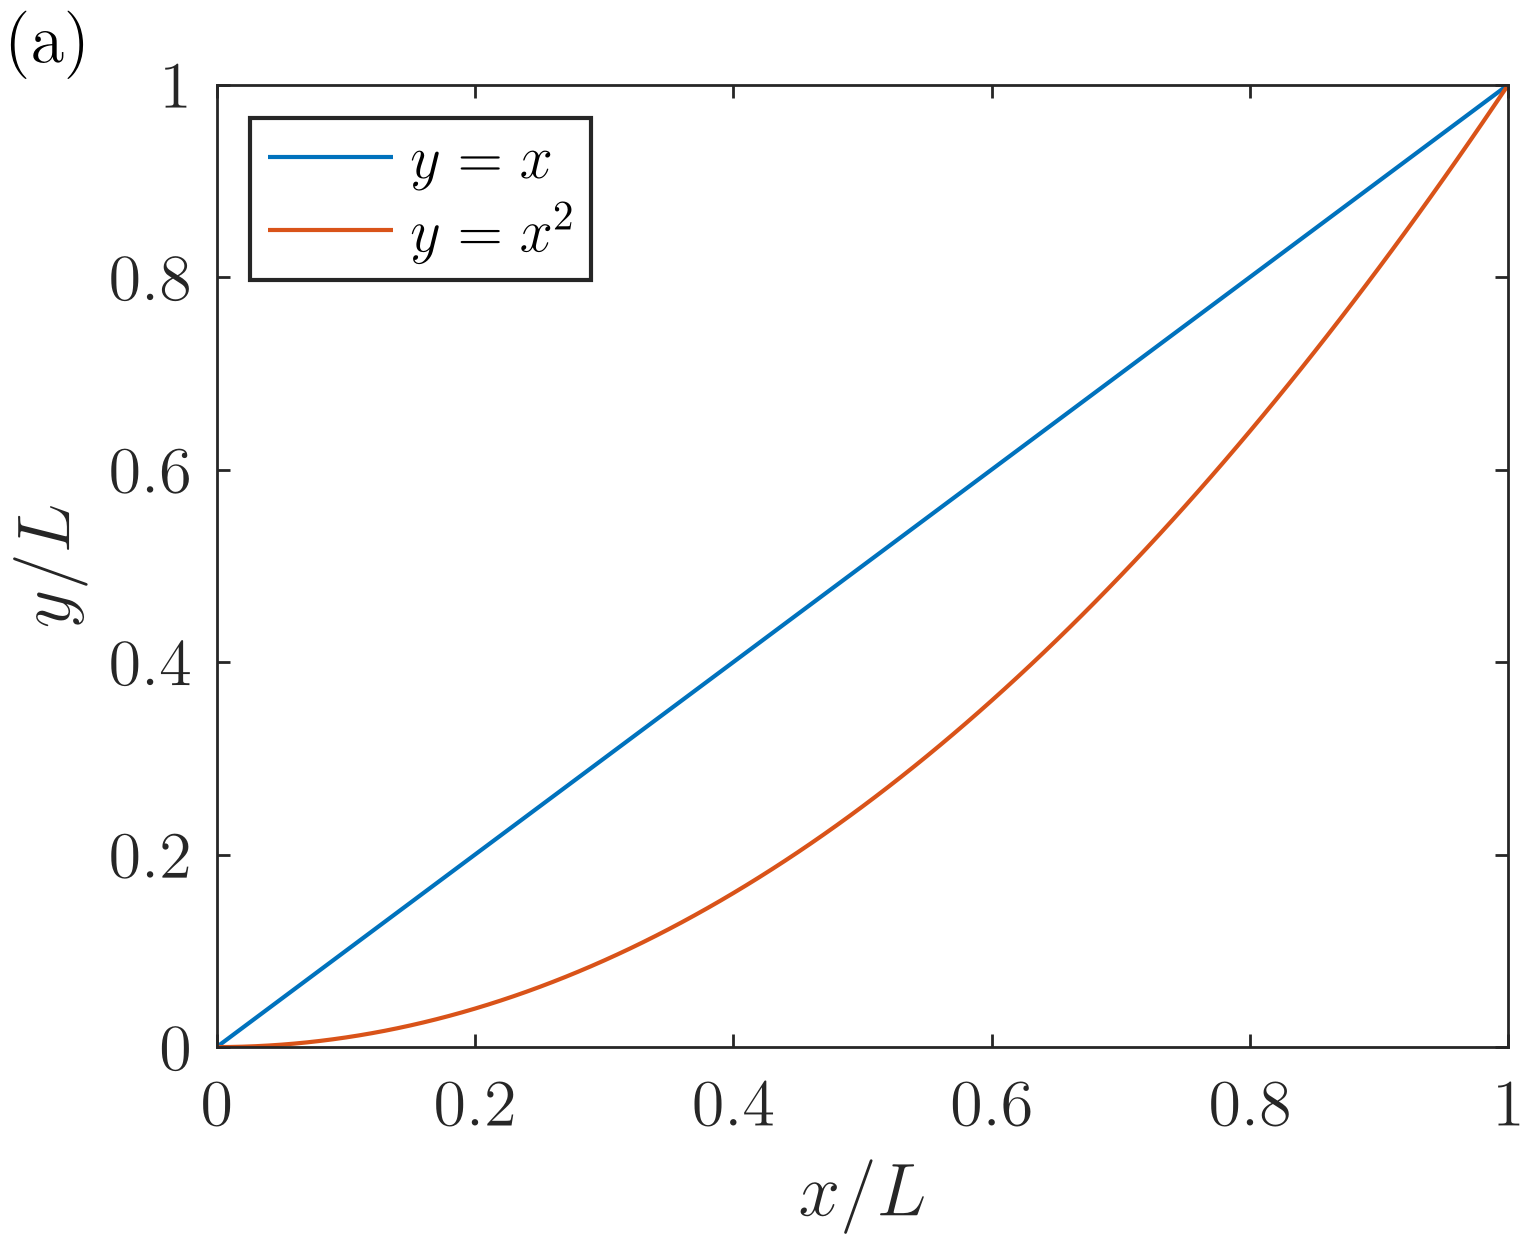
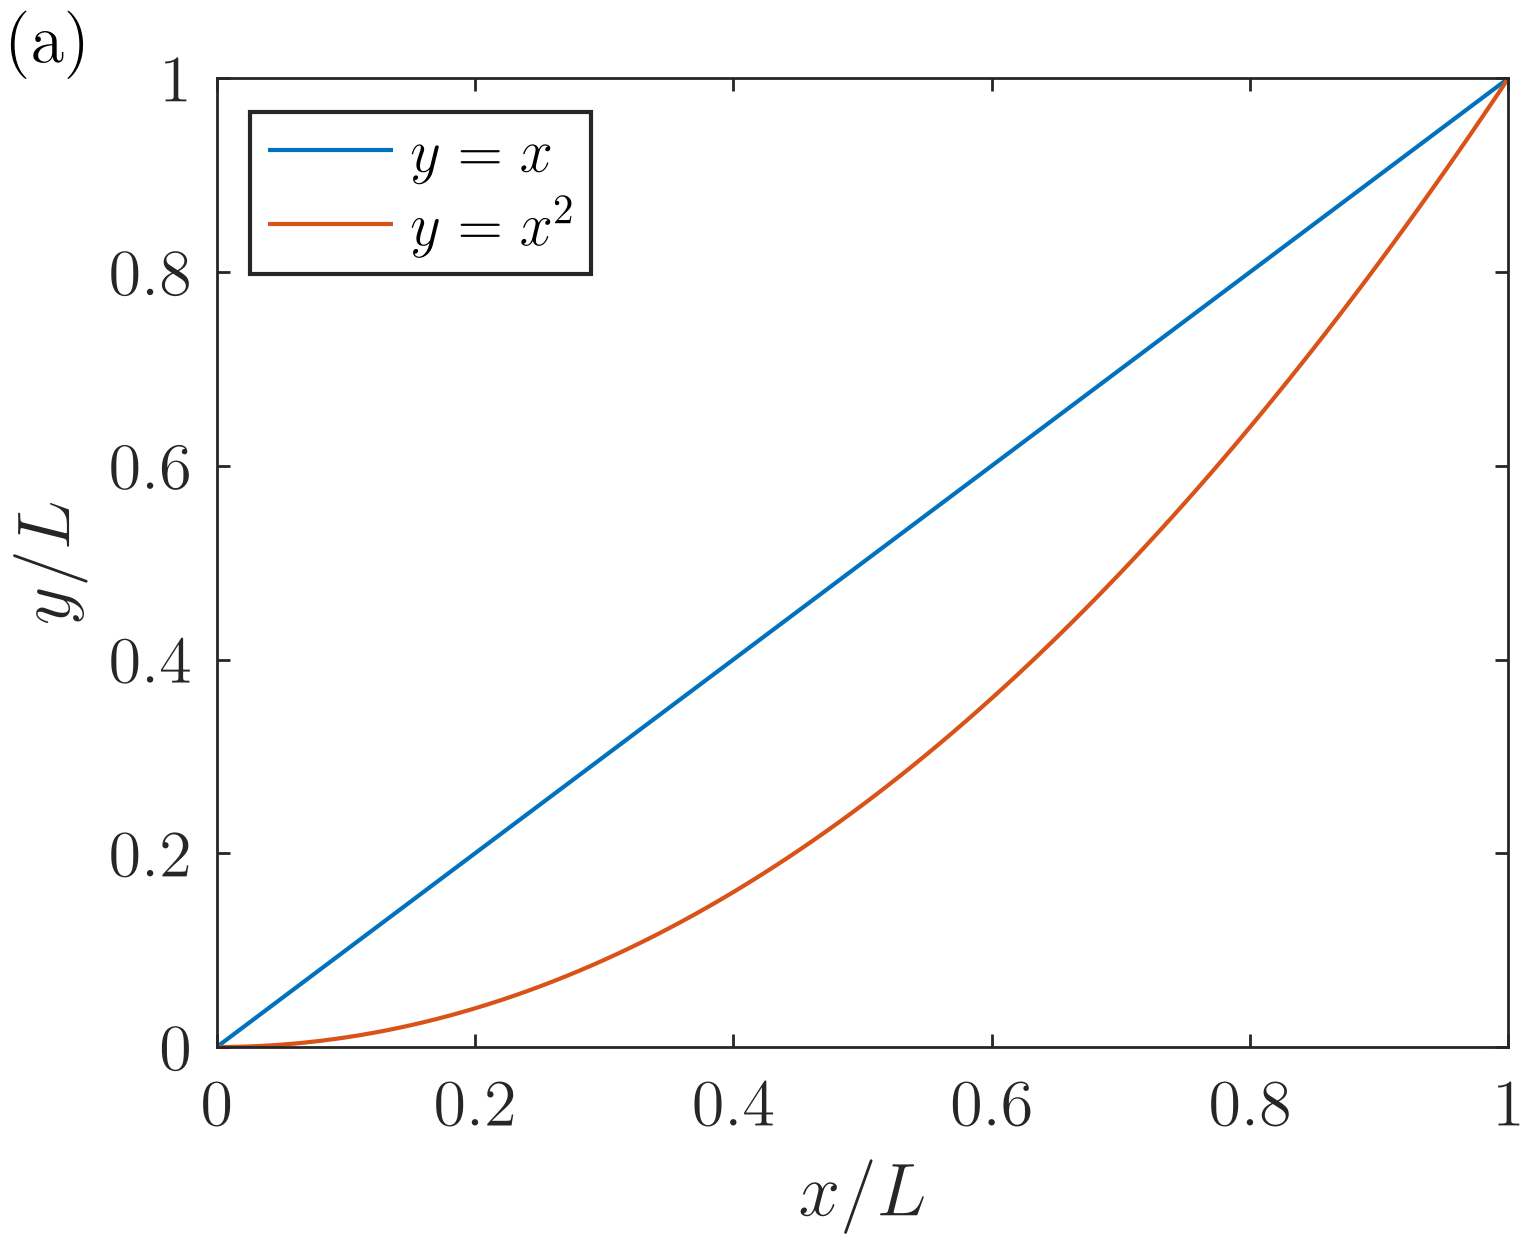
Enforce plot box ratios and safe export

diff --git a/skills/plot-matlab-style/scripts/matlab_style_plots.py b/skills/plot-matlab-style/scripts/matlab_style_plots.py
@@ -47,10 +47,10 @@ LINE_SCALE_METHODS = {
 }
 
 LINE_PAGE_PT = (368.0, 299.0)
-LINE_AXES_PT = (52.0, 47.5, 310.0, 231.0)
+LINE_AXES_PT = (52.0, 47.5, 310.0, 310.0 * 3.0 / 4.0)
 
 CONTOUR_PAGE_PT = (370.0, 308.0)
-CONTOUR_AXES_PT = (51.5, 49.5, 263.5, 231.0)
+CONTOUR_AXES_FRAME_PT = (51.5, 49.5, 263.5, 231.0)
 CONTOUR_CBAR_PT = (332.0, 49.5, 16.0, 231.0)
 
 PUBLICATION_RC = {
@@ -104,6 +104,45 @@ def _normalized_bounds(bounds_pt: Sequence[float], page_pt: Sequence[float]):
         bottom / page_height,
         width / page_width,
         height / page_height,
+    )
+
+
+def _box_ratio_value(box_ratio: float | Sequence[float]) -> float:
+    """Normalize a physical axes-box width:height ratio."""
+
+    if np.isscalar(box_ratio):
+        ratio = float(box_ratio)
+    else:
+        values = tuple(float(value) for value in box_ratio)
+        if len(values) != 2:
+            raise ValueError("box_ratio must be a number or (width, height)")
+        width, height = values
+        if width <= 0 or height <= 0:
+            raise ValueError("box_ratio width and height must be positive")
+        ratio = width / height
+    if not np.isfinite(ratio) or ratio <= 0:
+        raise ValueError("box_ratio must be positive and finite")
+    return ratio
+
+
+def _fit_box_ratio(
+    frame_pt: Sequence[float], box_ratio: float | Sequence[float]
+) -> tuple[float, float, float, float]:
+    """Fit an exact width:height axes box inside a calibrated frame."""
+
+    left, bottom, frame_width, frame_height = map(float, frame_pt)
+    ratio = _box_ratio_value(box_ratio)
+    if frame_width / frame_height > ratio:
+        height = frame_height
+        width = height * ratio
+    else:
+        width = frame_width
+        height = width / ratio
+    return (
+        left + (frame_width - width) / 2.0,
+        bottom + (frame_height - height) / 2.0,
+        width,
+        height,
     )
 
 
@@ -191,12 +230,45 @@ def _output_prefix(value: str | Path) -> Path:
     return prefix
 
 
+def _png_has_clear_border(path: Path, border_px: int = 2) -> bool:
+    """Return whether the outer PNG pixels are blank white canvas."""
+
+    image = plt.imread(path)
+    if (
+        image.ndim != 3
+        or image.shape[0] < 2 * border_px
+        or image.shape[1] < 2 * border_px
+    ):
+        return False
+    rgb = image[..., :3]
+    if image.shape[-1] == 4:
+        alpha = image[..., 3:4]
+        rgb = rgb * alpha + (1.0 - alpha)
+    border = np.concatenate(
+        (
+            rgb[:border_px].reshape(-1, 3),
+            rgb[-border_px:].reshape(-1, 3),
+            rgb[:, :border_px].reshape(-1, 3),
+            rgb[:, -border_px:].reshape(-1, 3),
+        ),
+        axis=0,
+    )
+    return bool(np.all(border >= 0.995))
+
+
 def _save(fig, output_prefix: str | Path, dpi: int) -> dict[str, Path]:
+    """Save both formats and fail closed if the fitted PNG still touches an edge."""
+
     prefix = _output_prefix(output_prefix)
     png = prefix.with_suffix(".png")
     pdf = prefix.with_suffix(".pdf")
     fig.savefig(png, dpi=dpi)
     fig.savefig(pdf)
+    if not _png_has_clear_border(png):
+        raise RuntimeError(
+            "page fitting left rendered content on the PNG boundary; "
+            "the output may be clipped"
+        )
     return {"png": png.resolve(), "pdf": pdf.resolve()}
 
 
@@ -613,7 +685,8 @@ def line_plot(
     labels to Matplotlib line properties, such as marker and linestyle.
     Set ``legend_loc=None`` to omit the legend. Automatic linear limits use
     4--6 uniform ticks; automatic log limits use clean 1--2--5 ticks. Explicit
-    limits or ticks always take precedence.
+    limits or ticks always take precedence. The physical axes box is always
+    exactly 4:3 (width:height); this is independent of data limits and scale.
 
     With ``legend_clearance`` (the default) an automatic y range is widened
     until the legend no longer sits on top of any curve. It has no effect when
@@ -743,6 +816,7 @@ def contour_plot(
     y: Sequence[float],
     z,
     *,
+    box_ratio: float | tuple[float, float],
     output_prefix: str | Path = "contour_plot",
     xlabel: str = r"$x/L$",
     ylabel: str = r"$y/L$",
@@ -760,7 +834,10 @@ def contour_plot(
 
     Accept ``z`` in either Matplotlib shape ``(len(y), len(x))`` or MATLAB
     ``ndgrid`` shape ``(len(x), len(y))``. Signed data defaults to symmetric
-    color limits around zero.
+    color limits around zero. ``box_ratio`` is required and denotes the
+    physical axes-box width:height ratio, either as a positive number or a
+    ``(width, height)`` pair. Callers should obtain it from the user rather
+    than infer it.
     """
 
     require_latex_tools()
@@ -797,11 +874,18 @@ def contour_plot(
     if colorbar_ticks is None:
         colorbar_ticks = np.linspace(vmin, vmax, 5)
 
+    axes_pt = _fit_box_ratio(CONTOUR_AXES_FRAME_PT, box_ratio)
+    cbar_pt = (
+        CONTOUR_CBAR_PT[0],
+        axes_pt[1],
+        CONTOUR_CBAR_PT[2],
+        axes_pt[3],
+    )
     page_width, page_height = CONTOUR_PAGE_PT
     with plt.rc_context(PUBLICATION_RC):
         fig = plt.figure(figsize=(page_width / 72, page_height / 72))
-        ax = fig.add_axes(_normalized_bounds(CONTOUR_AXES_PT, CONTOUR_PAGE_PT))
-        cax = fig.add_axes(_normalized_bounds(CONTOUR_CBAR_PT, CONTOUR_PAGE_PT))
+        ax = fig.add_axes(_normalized_bounds(axes_pt, CONTOUR_PAGE_PT))
+        cax = fig.add_axes(_normalized_bounds(cbar_pt, CONTOUR_PAGE_PT))
 
         filled = ax.contourf(
             x_array,
@@ -862,7 +946,7 @@ def contour_plot(
 
         _expand_page_to_fit(
             fig,
-            ((ax, CONTOUR_AXES_PT), (cax, CONTOUR_CBAR_PT)),
+            ((ax, axes_pt), (cax, cbar_pt)),
             CONTOUR_PAGE_PT,
             annotation_artist,
         )
@@ -895,6 +979,7 @@ def _run_demo(kind: str, output_dir: Path) -> None:
             x,
             y,
             z,
+            box_ratio=(263.5, 231.0),
             output_prefix=output_dir / "contour_demo",
             zlim=(-2, 2),
             xticks=np.linspace(0, 1, 6),

diff --git a/skills/plot-matlab-style/scripts/verify_pdf.py b/skills/plot-matlab-style/scripts/verify_pdf.py
@@ -26,10 +26,13 @@ def command_output(command: list[str]) -> str:
 def main() -> None:
     parser = argparse.ArgumentParser(description=__doc__)
     parser.add_argument("pdf", type=Path)
-    parser.add_argument("--width", type=float, required=True)
-    parser.add_argument("--height", type=float, required=True)
+    parser.add_argument("--width", type=float)
+    parser.add_argument("--height", type=float)
     parser.add_argument("--tolerance", type=float, default=0.05)
     args = parser.parse_args()
+
+    if (args.width is None) != (args.height is None):
+        parser.error("--width and --height must be supplied together")
 
     for command in ("pdfinfo", "pdffonts"):
         if shutil.which(command) is None:
@@ -42,7 +45,10 @@ def main() -> None:
     if match is None:
         raise SystemExit("could not parse PDF page size")
     width, height = map(float, match.groups())
-    if abs(width - args.width) > args.tolerance or abs(height - args.height) > args.tolerance:
+    if args.width is not None and (
+        abs(width - args.width) > args.tolerance
+        or abs(height - args.height) > args.tolerance
+    ):
         raise SystemExit(
             f"page size {width:g} x {height:g} pt; "
             f"expected {args.width:g} x {args.height:g} pt"

diff --git a/skills/plot-matlab-style/SKILL.md b/skills/plot-matlab-style/SKILL.md
@@ -9,15 +9,15 @@ Create line and filled-contour figures with the calibrated style while preservin
 
 ## Workflow
 
-1. Identify the requested plot type, linear/semilog/loglog axis scale, input data, labels, limits, ticks, legend, color scale, and output formats. Infer harmless defaults; ask only when a missing choice would materially change the scientific meaning.
+1. Identify the requested plot type, linear/semilog/loglog axis scale, input data, labels, limits, ticks, legend, color scale, and output formats. For every line plot, use an axes-box width:height ratio of exactly 4:3. For every contour plot, if the user has not already supplied the axes-box ratio, ask them for it before drawing; do not infer a contour ratio from the data or a reference image. Infer other harmless defaults; ask only when a missing choice would materially change the scientific meaning.
 2. Check that Python can import NumPy and Matplotlib and that `latex`, `dvipng`, and Ghostscript are available. Prefer the existing `pythonlineplot` Conda environment when present.
 3. Use `scripts/matlab_style_plots.py` instead of recreating style constants. Import its `line_plot` or `contour_plot` function from a small project-local driver script. Copy the module into the project only when portable source code is required.
 4. Preserve supplied data. Never substitute the bundled demo data into a real request.
 5. Let the legend clear the data. `line_plot` grows an automatic y range one tick step at a time (a decade step on log axes) until the legend frame no longer covers any plotted point, re-deriving ticks each step so the 4--6 uniform label rule keeps holding. Pass `legend_clearance=False` to disable it. When `ylim` or `yticks` is explicit the range is left exactly as given and the collision is reported as a warning instead.
-6. Use the calibrated geometry by default. For linear axes without explicit limits, jointly choose outward-rounded limits and 4--6 uniformly spaced ticks that include both endpoints. For logarithmic axes, use positive outward-rounded limits and clean 1--2--5 or decade ticks. Preserve explicit limits and ticks exactly. Adapt sizes only when the user requests another journal width, aspect ratio, layout, or colorbar orientation.
-7. Save both PNG and vector PDF unless the user requests one format. Render the PDF at 300 dpi and visually inspect the latest result for seams, illegible labels, incorrect limits, or misplaced annotations. Clipping is handled automatically: the axes rectangle is the calibrated invariant, so when tick labels or the axis label would overrun the page the page grows by exactly the overflow instead of the axes shrinking. A figure whose labels fit is left at the nominal page size.
+6. Use the calibrated geometry by default. Treat "box ratio" as the physical axes rectangle width:height, not the data aspect. The line-plot box is always exactly 4:3. Pass the user-selected contour ratio to `contour_plot(box_ratio=...)`. For linear axes without explicit limits, jointly choose outward-rounded limits and 4--6 uniformly spaced ticks that include both endpoints. For logarithmic axes, use positive outward-rounded limits and clean 1--2--5 or decade ticks. Preserve explicit limits and ticks exactly. Adapt other sizes only when the user requests another journal width, layout, or colorbar orientation.
+7. Save both PNG and vector PDF unless the user requests one format. Do not manually guess crop boundaries. Clipping is handled automatically from the complete Matplotlib artist bounding box: the page grows by exactly the overflow while the axes box remains fixed, and the saved PNG must pass the blank-border check or export fails. Visually inspect only as a final spot check for scientific/layout errors.
 8. When matching a supplied MATLAB PDF, read `references/calibration.md`, render both PDFs at the same DPI, compare page/axes/colorbar geometry, and report any remaining renderer-only differences.
-9. Run `scripts/verify_pdf.py` on the final PDF when `pdfinfo` and `pdffonts` are available. Pass the page size the figure actually produced: wide tick labels legitimately widen the page past the nominal 368 x 299 pt (line) or 370 x 308 pt (contour), while the axes rectangle stays 310 x 231 pt. Only a *changed axes rectangle* indicates a real geometry regression.
+9. Run `scripts/verify_pdf.py` on the final PDF when `pdfinfo` and `pdffonts` are available. Pass the page size the figure actually produced when checking an exact reference: wide tick labels legitimately widen the page past the nominal size, while the axes rectangle stays fixed. Only a *changed axes rectangle* indicates a real geometry regression.
 
 ## Quick Use
 
@@ -42,13 +42,19 @@ line_plot(
 )
 ```
 
+The line axes box is always exactly 4:3; do not add a per-figure line ratio
+control or infer a different ratio from the data.
+
 Set `scale="semilogx"`, `scale="semilogy"`, or `scale="loglog"` for native
 Matplotlib logarithmic axes. Pass the original positive data; never apply
 `np.log`, `np.log10`, or another manual transform before calling `line_plot`.
 Use `series_styles={label: {"marker": "s", "linestyle": "None"}}` for
 per-series marker and line styling, and set `legend_loc=None` to omit a legend.
 
-Use the analogous `contour_plot(x, y, z, ...)` function for filled contours. Read the function docstrings before adapting unusual inputs.
+Use the analogous `contour_plot(x, y, z, box_ratio=(width, height), ...)`
+function for filled contours. The ratio is required by the API to prevent an
+unasked-for default. For example, pass `box_ratio=(4, 3)` only after the user
+chooses 4:3. Read the function docstrings before adapting unusual inputs.
 
 ## Quality Rules
 
@@ -60,6 +66,7 @@ Use the analogous `contour_plot(x, y, z, ...)` function for filled contours. Rea
 - Keep line colors distinguishable in color and grayscale; preserve explicitly requested colors.
 - Keep the axes rectangle, colorbar position, and font embedding verifiable in the exported PDF. The page size is a container, not a calibrated quantity: it may exceed the nominal size so that nothing is clipped.
 - Never let ink touch the page edge. The module renders through the Agg backend for this reason as well: an interactive backend snaps the canvas to whole pixels and silently moves the page off-spec.
+- Treat the automatic artist-bound measurement and saved-PNG border check as the clipping gate. Do not spend time manually segmenting the image to decide whether text was cut.
 
 ## Resources
 

diff --git a/skills/plot-matlab-style/references/calibration.md b/skills/plot-matlab-style/references/calibration.md
@@ -18,7 +18,7 @@ Use these measurements when the user requests the established line/contour style
 ## Line figure
 
 - PDF page: 368 x 299 pt **nominal**; see "Page expansion" below
-- Axes rectangle: left 52, bottom 47.5, width 310, height 231 pt (the calibrated invariant)
+- Axes rectangle: left 52, bottom 47.5, width 310, height 232.5 pt. The exact 4:3 width:height box is the current invariant and supersedes the legacy measured height of 231 pt.
 - Legend: upper left, square frame, white background, 1 pt border
 - Figure annotation `(a)`: near the page upper-left corner
 - Calibrated reference content: `y=x`, `y=x^2`, both axes 0-1
@@ -33,6 +33,7 @@ Use these measurements when the user requests the established line/contour style
 - Colorbar outline/ticks: 0.5 pt; Times New Roman 14.4 pt tick labels
 - Colorbar title: LaTeX, 16 pt
 - Calibrated reference data: `Z = sin(2*pi*X) + cos(4*pi*Y)`
+- The 263.5 x 231 pt main-axes rectangle is the legacy maximum frame, not a default contour ratio. Ask the user for the desired axes-box width:height ratio, fit it exactly inside this frame, and align the colorbar vertically with the fitted axes.
 
 ## Page expansion
 
@@ -48,8 +49,13 @@ font size, so a single measurement suffices. A figure that already fits with 1 p
 untouched, which keeps both reference demos at exactly 368 x 299 and 370 x 308 pt.
 
 Consequence for checking: compare the *axes rectangle*, not the page, against this file. A page of
-374.5 x 299 pt with a 310 x 231 pt axes rectangle is correct; a page of exactly 368 x 299 pt with a
+374.5 x 299 pt with a 310 x 232.5 pt axes rectangle is correct; a page of exactly 368 x 299 pt with a
 shrunken axes rectangle is not.
+
+After saving, the exporter also checks the outer two PNG pixel rows and columns.
+If they are not blank white canvas, export fails instead of returning a possibly
+clipped figure. This deterministic artist-bound plus border validation replaces
+manual image segmentation; visual review is only a scientific/layout spot check.
 
 ## Legend clearance
 

diff --git a/README.md b/README.md
@@ -44,7 +44,7 @@
 
 Contour 示例：
 
-> 用 Python 画一个带对称 colorbar 的等高线云图，采用 LaTeX 标签并输出 PDF。
+> 用 Python 画一个带对称 colorbar 的等高线云图，axes box 使用 4:3，采用 LaTeX 标签并输出 PDF。
 
 ## Python 环境
 
@@ -107,6 +107,8 @@ Windows 用户需要注意：
 - 校准后的 MATLAB 风格页面和坐标轴几何
 - 线图、semilog、loglog 和 filled contour
 - 自动生成 4--6 个规整、均匀间隔的线性坐标刻度
+- 线图 axes box 严格为 4:3；contour 由用户指定 axes box 比例
+- 根据全部 Matplotlib artist 自动扩展页面，并检查输出边界，避免标签被裁切
 - MATLAB 默认线条配色与 `RdBu_r` contour 配色
 - 外部 LaTeX 字体渲染
 - 300 dpi PNG 与矢量 PDF 输出
